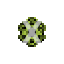
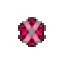
map editor

Changed region(s): [[0.2812, 0.25, 0.7188, 0.75]]

diff --git a/public/mapgenerator.js b/public/mapgenerator.js
@@ -1894,53 +1894,63 @@ function atomsColors(myZone) {
     myZone.forEach(function(tile) {
         if (tile.rq != undefined) {
             if (tile.rq >= 1 && tile.rq <= 3) {
-                tileTotalRes = 0;
-                tileNumRes = 0;
-                rareRes = 0;
-                Object.entries(tile.rs).map(entry => {
-                    let key = entry[0];
-                    let value = entry[1];
-                    res = getResByName(key);
-                    rarityFactor = 45-Math.ceil(res.rarity*(res.batch+3)/7);
-                    if (rarityFactor <= 15) {
-                        rarityFactor = 15;
-                    }
-                    tileTotalRes = tileTotalRes+Math.round(value*rarityFactor/18);
-                    if (res.rarity <= 16 || res.batch <= 2) {
-                        rareRes = rareRes+2;
-                    } else if (res.rarity <= 25) {
-                        rareRes++;
-                    }
-                    tileNumRes++;
-                });
-                if (tileNumRes >= 5) {
-                    if (tileTotalRes >= 1000 || rareRes >= 2) {
-                        tile.rq = 3;
-                    } else {
-                        tile.rq = 2;
-                    }
-                } else if (tileNumRes >= 4) {
-                    if (tileTotalRes >= 1350 || (rareRes >= 2 && tileTotalRes >= 1000)) {
-                        tile.rq = 3;
-                    } else {
-                        tile.rq = 2;
-                    }
-                } else if (tileNumRes >= 2) {
-                    if (tileTotalRes >= 700 || (rareRes >= 1 && tileTotalRes >= 300) || (rareRes >= 2 && tileTotalRes >= 250)) {
-                        tile.rq = 2;
-                    } else {
-                        tile.rq = 1;
-                    }
-                } else {
-                    if (tileTotalRes >= 850 || (rareRes >= 1 && tileTotalRes >= 400)) {
-                        tile.rq = 2;
-                    } else {
-                        tile.rq = 1;
-                    }
-                }
+                atomColour(tile,false);
             }
         }
     });
+};
+
+function atomColour(tile,inMaped) {
+    let tileTotalRes = 0;
+    let tileNumRes = 0;
+    let rareRes = 0;
+    let specialRes = 0;
+    Object.entries(tile.rs).map(entry => {
+        let key = entry[0];
+        let value = entry[1];
+        res = getResByName(key);
+        rarityFactor = 45-Math.ceil(res.rarity*(res.batch+3)/7);
+        if (rarityFactor <= 15) {
+            rarityFactor = 15;
+        }
+        tileTotalRes = tileTotalRes+Math.round(value*rarityFactor/18);
+        if (res.rarity <= 16 || res.batch <= 2) {
+            rareRes = rareRes+2;
+        } else if (res.rarity <= 25) {
+            rareRes++;
+        }
+        if (res.cat.includes('sky')) {
+            specialRes++;
+        }
+        tileNumRes++;
+    });
+    if (specialRes >= 1 && inMaped) {
+        tile.rq = 5;
+    } else if (tileNumRes >= 5) {
+        if (tileTotalRes >= 1000 || rareRes >= 2) {
+            tile.rq = 3;
+        } else {
+            tile.rq = 2;
+        }
+    } else if (tileNumRes >= 4) {
+        if (tileTotalRes >= 1350 || (rareRes >= 2 && tileTotalRes >= 1000)) {
+            tile.rq = 3;
+        } else {
+            tile.rq = 2;
+        }
+    } else if (tileNumRes >= 2) {
+        if (tileTotalRes >= 700 || (rareRes >= 1 && tileTotalRes >= 300) || (rareRes >= 2 && tileTotalRes >= 250)) {
+            tile.rq = 2;
+        } else {
+            tile.rq = 1;
+        }
+    } else {
+        if (tileTotalRes >= 850 || (rareRes >= 1 && tileTotalRes >= 400)) {
+            tile.rq = 2;
+        } else {
+            tile.rq = 1;
+        }
+    }
 };
 
 function deepWaters(zone) {

diff --git a/public/mapeditor.js b/public/mapeditor.js
@@ -81,40 +81,6 @@ function mapResAddList() {
     console.log(theTileRes);
 };
 
-function mapResAdd(resName) {
-    let letsAdd = rand.rand(35,65);
-    if (theTileRes[resName] === undefined) {
-        theTileRes[resName] = letsAdd;
-    } else {
-        theTileRes[resName] = theTileRes[resName]+letsAdd;
-    }
-    // mapResAddList();
-    mapEditWindow();
-};
-
-function selectTerrain(terName) {
-    mped.ster = terName;
-    mped.sinf = '';
-    cursorSwitch('.','grid-item','copy');
-    mapEditWindow();
-};
-
-function selectInfra(infraName) {
-    mped.sinf = infraName;
-    delete mped.ster;
-    cursorSwitch('.','grid-item','copy');
-    mapEditWindow();
-};
-
-function addScrapToRuins(tile) {
-    if (tile.rq === undefined) {
-        tile.rq = 0;
-        let sq = rand.rand(250,500);
-        tile.rs = {};
-        tile.rs['Scrap'] = sq;
-    }
-}
-
 function clickEdit(tileId) {
     let tile = zone[tileId];
     if (mped.sinf != '') {
@@ -149,25 +115,13 @@ function clickEdit(tileId) {
                 delete tile.rd;
             }
         } else if (mped.sinf === 'Res') {
-            if (tile.rs === undefined) {
-                tile.rs = theTileRes;
-            } else if (tile.rq === 0) {
-                tile.rs = theTileRes;
-                tile.rs['Scrap'] = rand.rand(250,500);
-            }
-            tile.rq = 3;
-            mped.sinf = '';
-            theTileRes = {};
+            addResToTile(tile);
+            atomColour(tile,true);
+            // tile.rq = 3;
         } else if (mped.sinf === 'RareRes') {
-            if (tile.rs === undefined) {
-                tile.rs = theTileRes;
-            } else if (tile.rq === 0) {
-                tile.rs = theTileRes;
-                tile.rs['Scrap'] = rand.rand(250,500);
-            }
-            tile.rq = 5;
-            mped.sinf = '';
-            theTileRes = {};
+            addResToTile(tile);
+            atomColour(tile,true);
+            // tile.rq = 5;
         } else if (mped.sinf === 'NoRes') {
             delete tile.rq;
             delete tile.rs;
@@ -204,6 +158,51 @@ function clickEdit(tileId) {
     mapEditWindow();
     showMap(zone,true);
     cursorSwitch('.','grid-item','copy');
+};
+
+function mapResAdd(resName) {
+    let letsAdd = rand.rand(35,65);
+    if (theTileRes[resName] === undefined) {
+        theTileRes[resName] = letsAdd;
+    } else {
+        theTileRes[resName] = theTileRes[resName]+letsAdd;
+    }
+    // mapResAddList();
+    mapEditWindow();
+};
+
+function selectTerrain(terName) {
+    mped.ster = terName;
+    mped.sinf = '';
+    cursorSwitch('.','grid-item','copy');
+    mapEditWindow();
+};
+
+function selectInfra(infraName) {
+    mped.sinf = infraName;
+    delete mped.ster;
+    cursorSwitch('.','grid-item','copy');
+    mapEditWindow();
+};
+
+function addScrapToRuins(tile) {
+    if (tile.rq === undefined) {
+        tile.rq = 0;
+        let sq = rand.rand(250,500);
+        tile.rs = {};
+        tile.rs['Scrap'] = sq;
+    }
+};
+
+function addResToTile(tile) {
+    if (tile.rs === undefined) {
+        tile.rs = theTileRes;
+    } else if (tile.rq === 0) {
+        tile.rs = theTileRes;
+        tile.rs['Scrap'] = rand.rand(250,500);
+    }
+    mped.sinf = '';
+    theTileRes = {};
 };
 
 function getNextSeed(tile) {

diff --git a/public/modes.js b/public/modes.js
@@ -50,7 +50,6 @@ function editMode() {
     $('#report').empty('');
     mped = {};
     mped.as = false;
-    mped.ster = 'P';
     mped.sinf = '';
     batUnselect();
     mapEditWindow();
